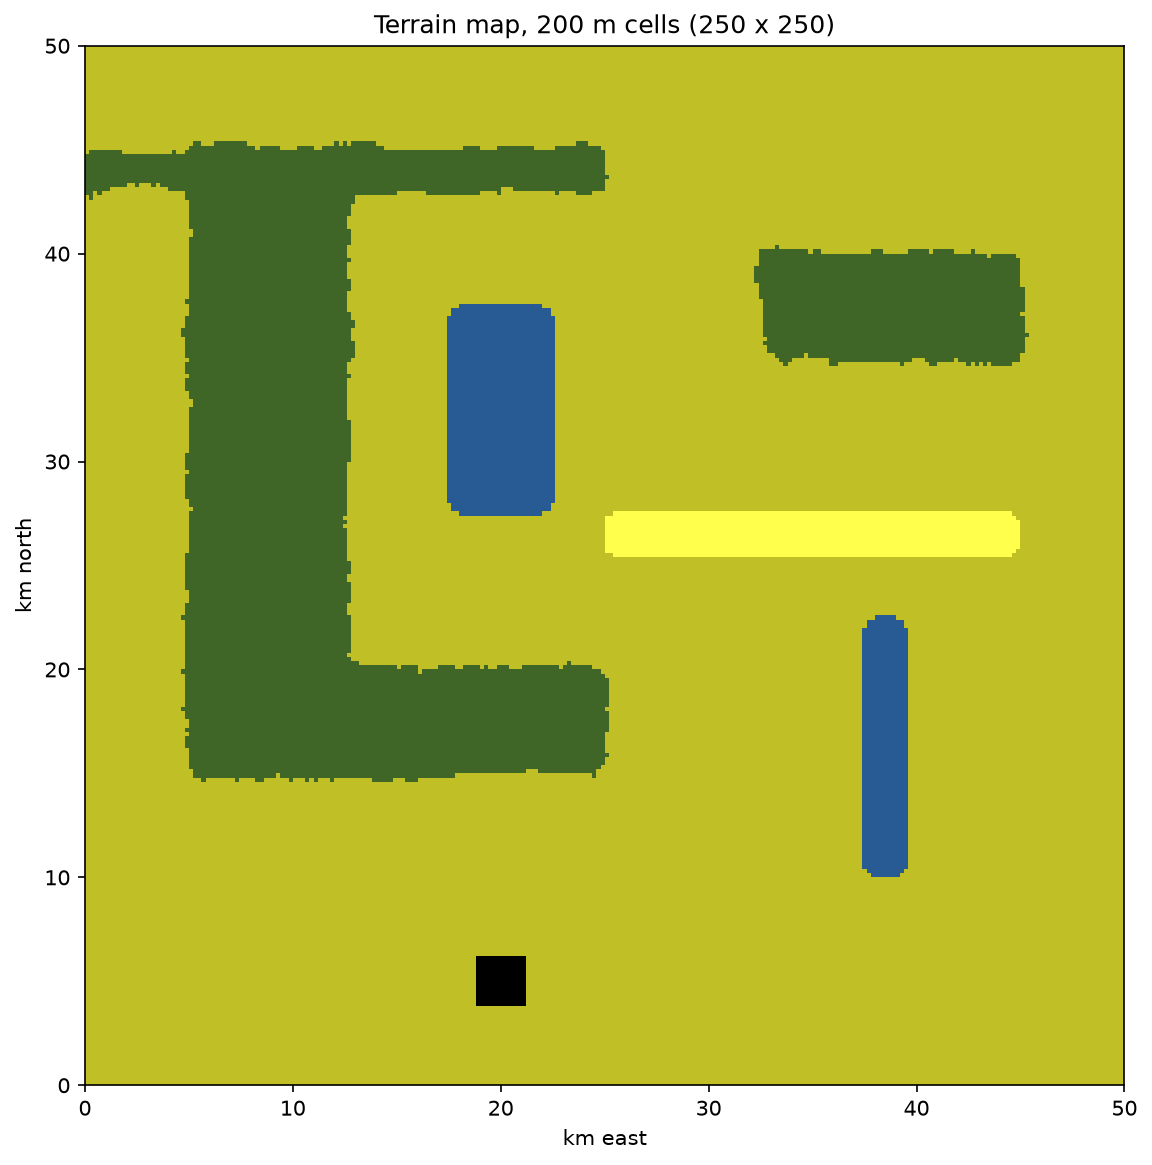
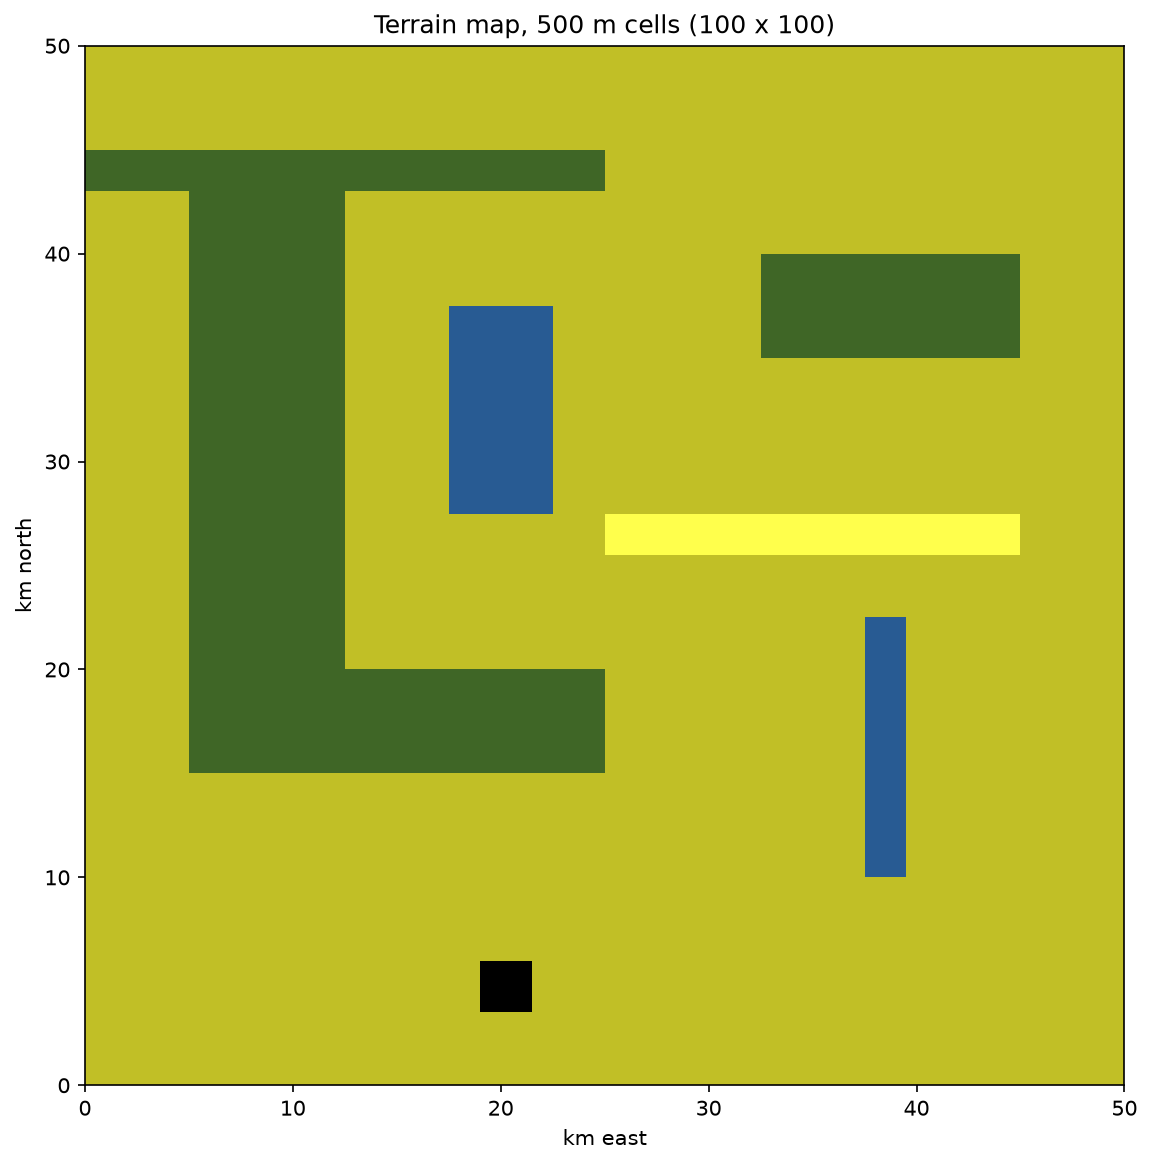
remove teraforming

diff --git a/firemodel/terrain_map.py b/firemodel/terrain_map.py
@@ -11,7 +11,7 @@ LAKE = 3
 
 # 200m cells -> 250x250. tried 50m and 100m but capyle was too slow
 MAP_KM = 50
-CELL_KM = 0.2
+CELL_KM = 0.5
 GRID_SIZE = int(round(MAP_KM / CELL_KM))
 GRID_DIMS = (GRID_SIZE, GRID_SIZE)
 
